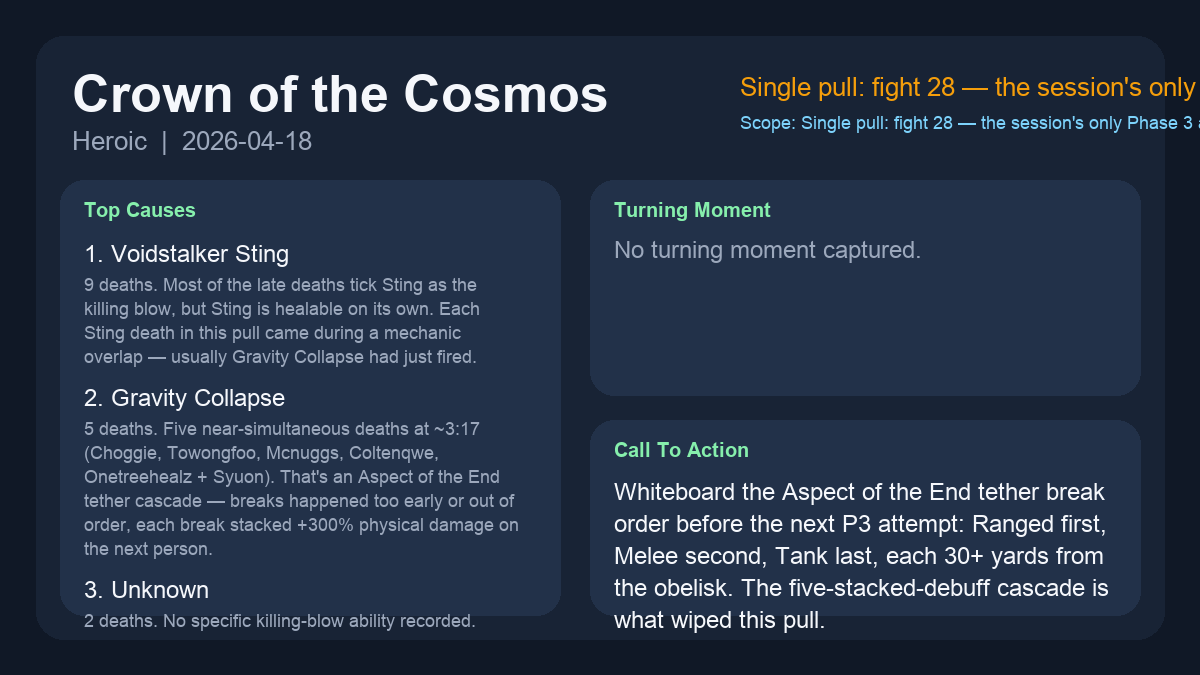
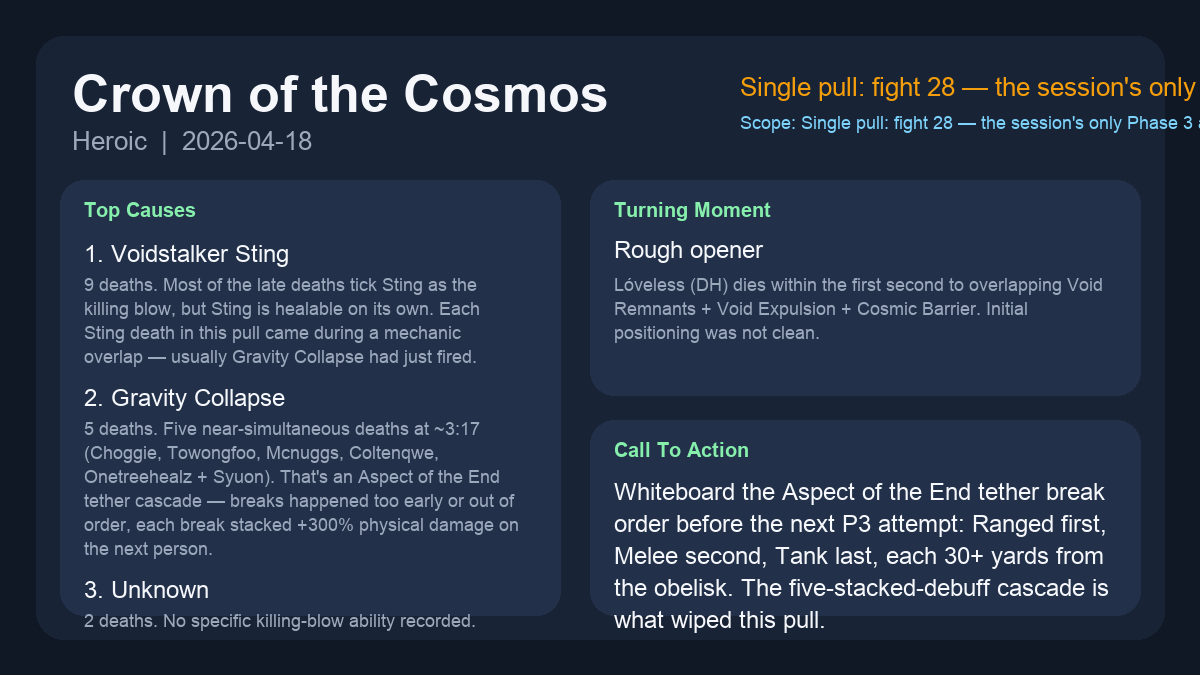
Publish report: Crown of the Cosmos

Changed region(s): [[0.4933, 0.3422, 0.925, 0.4978]]

diff --git a/reports/crown-of-the-cosmos/2026-04-18-rqxmdcnymz3ahxwq-3181-single-pull-fight-28-the-session-s-only-phase-3-attempt.html b/reports/crown-of-the-cosmos/2026-04-18-rqxmdcnymz3ahxwq-3181-single-pull-fight-28-the-session-s-only-phase-3-attempt.html
@@ -583,7 +583,13 @@ footer.report-footer {
           <li><a href="#analysis-scope">Analysis scope</a></li>
           
           
+          <li><a href="#simple-strategy">Simple strategy</a></li>
           
+          
+          <li><a href="#mechanic-glossary">Mechanic glossary</a></li>
+          
+          
+          <li><a href="#turning-moments">Turning moments</a></li>
           
           <li><a href="#cause-mix">Cause mix</a></li>
           <li><a href="#top-causes">Top death causes</a></li>
@@ -638,9 +644,350 @@ footer.report-footer {
       
 
       
+      <details class="report-section" id="simple-strategy">
+        <summary><h2>Simple strategy</h2></summary>
+        <div class="report-section-body">
+          
+          <p class="strategy-overview">Crown of the Cosmos is a 3-phase fight with two intermissions. The Rift Simulacrum shares health with the boss via Voidlink — when the Simulacrum dies at 62% boss HP, Phase 3 (The End of the End) begins. Heroic is a heavy HPS and DPS check; interrupts in P1/P2 and tether order in P3 are non-negotiable.</p>
+          
 
+          
+          <div class="strategy-block">
+            <h3>Fight plan</h3>
+            <ul>
+              
+              <li>P1 (100%–~85% boss HP): hard-interrupt every Void Barrage on Undying Voidspawn. One arrow per Sentinel — never re-hit the same Sentinel. Drop Void Remnants on the edge.</li>
+              
+              <li>Intermission 1 / P2 (Severed Rift): ranged bait Void Expulsion together on the fissure edge. Burn the Rift Simulacrum shield while a healer raid CD covers Cosmic Barrier. Rotate counter-clockwise along the fissure for Silverstrike Ricochet.</li>
+              
+              <li>Intermission 2 (Orbiting Matter): stay centered in your assigned platform slice. Do not move during the 300% arrow damage debuff window.</li>
+              
+              <li>P3 (from 62% boss HP): Ranged → Melee → Tank tether break order, 30+ yards apart. Grab feathers for Devouring Cosmos slice jumps. Reposition as a unit for Grasp of Emptiness / Bursting Emptiness.</li>
+              
+            </ul>
+          </div>
+          
+
+          
+          <div class="strategy-block">
+            <h3>Phase plan</h3>
+            <div class="strategy-phase-list">
+              
+              <article class="strategy-phase-card">
+                <h4>Phase 1 (100% → ~85%)</h4>
+                <p>Interrupt rotation phase. Add management with Silverstrike arrows.</p>
+                <p><strong>Positioning:</strong> Raid in standard stack. Tanks keep boss centered.</p>
+                <p><strong>Assignments:</strong> Three named interrupters per Undying Voidspawn, with a backup. One arrow per Sentinel — do not re-hit.</p>
+                <p><strong>Movement:</strong> Drop Void Remnants on the room edge. Keep the center clear.</p>
+              </article>
+              
+              <article class="strategy-phase-card">
+                <h4>Intermission 1 / Phase 2 (Severed Rift)</h4>
+                <p>DPS the Rift Simulacrum through Cosmic Barrier while healers raid-CD. Rotate for Ricochet.</p>
+                <p><strong>Positioning:</strong> Ranged slightly outside melee stack to bait Void Expulsion. Bait together on the fissure edge.</p>
+                <p><strong>Assignments:</strong> Healers pre-assign raid CDs for each Cosmic Barrier. DPS burn the shield.</p>
+                <p><strong>Movement:</strong> Rotate counter-clockwise along the fissure edge as Silverstrike Ricochet space shrinks.</p>
+              </article>
+              
+              <article class="strategy-phase-card">
+                <h4>Intermission 2 (Orbiting Matter)</h4>
+                <p>Platform slice transition. Do not move during the 300% arrow damage window.</p>
+                <p><strong>Positioning:</strong> Each player locks their assigned slice. Stay centered.</p>
+                <p><strong>Assignments:</strong> Call the slice per role before the intermission starts.</p>
+                <p><strong>Movement:</strong> No movement during the debuff window. Rotate slice only to dodge incoming bolts.</p>
+              </article>
+              
+              <article class="strategy-phase-card">
+                <h4>Phase 3 — The End of the End (from 62% boss HP)</h4>
+                <p>Tether break order is the whole fight. Feathers are required for slice jumps.</p>
+                <p><strong>Positioning:</strong> Ranged 30+ yards from tether obelisk. Tanks take tether last. Group moves as a unit for Grasp.</p>
+                <p><strong>Assignments:</strong> Ranged → Melee → Tank break order. One feather per player per Devouring Cosmos. Do not dispel Null Corona.</p>
+                <p><strong>Movement:</strong> Jump to a fresh slice via feather before Devouring Cosmos covers the current slice. Reposition off obelisks before Grasp/Bursting Emptiness fires.</p>
+              </article>
+              
+            </div>
+          </div>
+          
+
+          
+          <div class="strategy-block">
+            <h3>Big mistakes to avoid</h3>
+            <ul>
+              
+              <li>Letting a Void Barrage cast complete. The add goes unkillable and the raid eats massive damage.</li>
+              
+              <li>Re-hitting the same Sentinel with Silverstrike Arrow — it resets stacks.</li>
+              
+              <li>Breaking Aspect of the End tethers out of order or too close. Each break stacks 300% physical damage.</li>
+              
+              <li>Dispelling Null Corona. The remaining absorb jumps to another player — just heal through it.</li>
+              
+              <li>Skipping feathers on Heroic. You cannot outrun Devouring Cosmos without one on most classes.</li>
+              
+              <li>Moving during the 300% arrow damage window in Intermission 2.</li>
+              
+            </ul>
+          </div>
+          
+
+          
+          <div class="strategy-block">
+            <h3>How your log differed</h3>
+            <ul>
+              
+              <li>This pull reached Phase 3 — the session&#39;s only one. Prior wipes all stopped in P2.</li>
+              
+              <li>Phase 2 was clean on this pull: only one opener death (Lóveless at 0:00 to overlapping Void Remnants + Void Expulsion + Cosmic Barrier).</li>
+              
+              <li>Intermission 2 lost three players (Megàdeth, Coltenqwe, Wízardlizard) to Orbiting Matter / Stellar Emission — slice assignments were not held by everyone.</li>
+              
+              <li>Phase 3 wiped to an Aspect of the End cascade at ~3:17 (5 near-simultaneous Gravity Collapse deaths). Tether break order was not held.</li>
+              
+              <li>Late P3 cleanup deaths: Diesl to Devouring Cosmos (missed slice jump), Zoeìe and Skidouche to Grasp / Bursting Emptiness beams.</li>
+              
+            </ul>
+          </div>
+          
+
+          
+        </div>
+      </details>
       
 
+      
+      <details class="report-section" id="mechanic-glossary">
+        <summary><h2>Mechanic glossary</h2></summary>
+        <div class="report-section-body">
+          <div class="glossary-list">
+            
+            <div class="glossary-item">
+              <div class="glossary-name ability">Void Barrage</div>
+              
+              <div class="glossary-summary">Cast by Undying Voidspawn adds. At 100 energy the add goes unkillable and the cast deals massive raid damage.</div>
+              
+              <div class="glossary-howto"><strong>How to handle:</strong> Assign 3 named interrupters per add with a backup. Never let the cast complete.</div>
+              
+            </div>
+            
+            <div class="glossary-item">
+              <div class="glossary-name ability">Voidstalker Sting</div>
+              
+              <div class="glossary-summary">25-second Void DoT on random targets.</div>
+              
+              <div class="glossary-howto"><strong>How to handle:</strong> Healable with standard healing on Heroic. If it&#39;s killing people, the real problem is a concurrent mechanic.</div>
+              
+            </div>
+            
+            <div class="glossary-item">
+              <div class="glossary-name ability">Void Expulsion</div>
+              
+              <div class="glossary-summary">Ranged-baited puddle dropped on target location.</div>
+              
+              <div class="glossary-howto"><strong>How to handle:</strong> All ranged bait together on the fissure edge, slightly outside melee stack.</div>
+              
+            </div>
+            
+            <div class="glossary-item">
+              <div class="glossary-name ability">Void Remnants</div>
+              
+              <div class="glossary-summary">Ground puddles dropped by adds.</div>
+              
+              <div class="glossary-howto"><strong>How to handle:</strong> Drop on the edge of the room. Do not stand in old puddles.</div>
+              
+            </div>
+            
+            <div class="glossary-item">
+              <div class="glossary-name ability">Cosmic Barrier</div>
+              
+              <div class="glossary-summary">Large absorb on the Rift Simulacrum with raid-wide ambient damage for the duration.</div>
+              
+              <div class="glossary-howto"><strong>How to handle:</strong> Healers pre-assign a raid CD for each Barrier window. DPS burn the shield.</div>
+              
+            </div>
+            
+            <div class="glossary-item">
+              <div class="glossary-name ability">Silverstrike Ricochet</div>
+              
+              <div class="glossary-summary">Bouncing arrow that clears space along the fissure.</div>
+              
+              <div class="glossary-howto"><strong>How to handle:</strong> Rotate counter-clockwise along the fissure edge as space shrinks.</div>
+              
+            </div>
+            
+            <div class="glossary-item">
+              <div class="glossary-name ability">Orbiting Matter</div>
+              
+              <div class="glossary-summary">Bolts that fire through assigned platform slices during Intermission 2.</div>
+              
+              <div class="glossary-howto"><strong>How to handle:</strong> Stay centered in your assigned slice. Do not move during the 300% arrow damage debuff.</div>
+              
+            </div>
+            
+            <div class="glossary-item">
+              <div class="glossary-name ability">Aspect of the End</div>
+              
+              <div class="glossary-summary">Tethers tank, melee, and ranged players to obelisks. Break order matters.</div>
+              
+              <div class="glossary-howto"><strong>How to handle:</strong> Break order: Ranged → Melee → Tank, 30+ yards apart. Each break stacks 300% physical damage.</div>
+              
+            </div>
+            
+            <div class="glossary-item">
+              <div class="glossary-name ability">Gravity Collapse</div>
+              
+              <div class="glossary-summary">Raid damage fired when Aspect tethers break.</div>
+              
+              <div class="glossary-howto"><strong>How to handle:</strong> Survivable with reasonable spacing and correct break order. Cascades if debuffs stack.</div>
+              
+            </div>
+            
+            <div class="glossary-item">
+              <div class="glossary-name ability">Grasp of Emptiness</div>
+              
+              <div class="glossary-summary">Obelisk anchor for 8 seconds, then beams fire at expiration.</div>
+              
+              <div class="glossary-howto"><strong>How to handle:</strong> Reposition the group as a unit before the timer expires.</div>
+              
+            </div>
+            
+            <div class="glossary-item">
+              <div class="glossary-name ability">Devouring Cosmos</div>
+              
+              <div class="glossary-summary">Covers the current platform slice in a no-heal puddle.</div>
+              
+              <div class="glossary-howto"><strong>How to handle:</strong> Jump to a fresh slice via feather before it finishes spawning. Feathers are required on Heroic.</div>
+              
+            </div>
+            
+            <div class="glossary-item">
+              <div class="glossary-name ability">Bursting Emptiness</div>
+              
+              <div class="glossary-summary">Damage when Grasp of Emptiness expires.</div>
+              
+              <div class="glossary-howto"><strong>How to handle:</strong> Same dodge as Grasp — reposition as a unit before expiration.</div>
+              
+            </div>
+            
+            <div class="glossary-item">
+              <div class="glossary-name ability">Dark Rush</div>
+              
+              <div class="glossary-summary">Cosmic feather pickup granting a 12-second glide.</div>
+              
+              <div class="glossary-howto"><strong>How to handle:</strong> Required to cross between slices on Heroic. Grab one per Devouring Cosmos cycle.</div>
+              
+            </div>
+            
+            <div class="glossary-item">
+              <div class="glossary-name ability">Null Corona</div>
+              
+              <div class="glossary-summary">Heal absorb on a player.</div>
+              
+              <div class="glossary-howto"><strong>How to handle:</strong> Do NOT dispel. Dispelling jumps the remaining absorb to another player. Heal through it.</div>
+              
+            </div>
+            
+          </div>
+        </div>
+      </details>
+      
+
+      
+      <details class="report-section" id="turning-moments" open>
+        <summary><h2>Turning moments</h2></summary>
+        <div class="report-section-body">
+          <div class="turning-list">
+            
+            <article class="turning-card">
+              <div class="turning-meta">Pull 1 &middot; 0:00</div>
+              <h3>Rough opener</h3>
+              <p class="turning-summary">Lóveless (DH) dies within the first second to overlapping Void Remnants + Void Expulsion + Cosmic Barrier. Initial positioning was not clean.</p>
+              
+              <div class="turning-mechanics">
+                
+                <span class="turning-chip ability">Void Remnants</span>
+                
+                <span class="turning-chip ability">Void Expulsion</span>
+                
+                <span class="turning-chip ability">Cosmic Barrier</span>
+                
+              </div>
+              
+              
+              <p><strong>Impact:</strong> First raid loss before P1 settled. Not fatal — the raid recovered.</p>
+              
+              
+              <p><strong>Why it mattered:</strong> Signals that pre-pull spread/stack was not correct.</p>
+              
+            </article>
+            
+            <article class="turning-card">
+              <div class="turning-meta">Pull 1 &middot; 1:54 → 2:11</div>
+              <h3>Intermission 2 slice coverage gap</h3>
+              <p class="turning-summary">Megàdeth (DK), Coltenqwe (Warlock), and Wízardlizard (Evoker) get clipped by Orbiting Matter and Stellar Emission during the platform transition.</p>
+              
+              <div class="turning-mechanics">
+                
+                <span class="turning-chip ability">Orbiting Matter</span>
+                
+                <span class="turning-chip ability">Stellar Emission</span>
+                
+              </div>
+              
+              
+              <p><strong>Impact:</strong> Three players lost before Phase 3 even started — raid entered the hardest phase down 15% roster.</p>
+              
+              
+              <p><strong>Why it mattered:</strong> Three people isn&#39;t random variance, it&#39;s a slice assignment that wasn&#39;t called or wasn&#39;t held.</p>
+              
+            </article>
+            
+            <article class="turning-card">
+              <div class="turning-meta">Pull 1 &middot; 2:56 → 3:19</div>
+              <h3>Aspect of the End tether cascade</h3>
+              <p class="turning-summary">Five near-simultaneous Gravity Collapse deaths: Choggie, Towongfoo, Mcnuggs, Coltenqwe, Onetreehealz (+ Syuon on the next tick).</p>
+              
+              <div class="turning-mechanics">
+                
+                <span class="turning-chip ability">Aspect of the End</span>
+                
+                <span class="turning-chip ability">Gravity Collapse</span>
+                
+              </div>
+              
+              
+              <p><strong>Impact:</strong> Lost 5+ players at once. The pull was effectively over from this point.</p>
+              
+              
+              <p><strong>Why it mattered:</strong> Classic out-of-order tether break — each break applied 300% physical damage, stacking until the raid folded. This is THE phase 3 failure mode.</p>
+              
+            </article>
+            
+            <article class="turning-card">
+              <div class="turning-meta">Pull 1 &middot; 4:13 → 4:17</div>
+              <h3>Grasp and Devouring Cosmos cleanup</h3>
+              <p class="turning-summary">Zoeìe and Skidouche die to Grasp of Emptiness beams. Diesl dies to Devouring Cosmos after staying on the filling slice.</p>
+              
+              <div class="turning-mechanics">
+                
+                <span class="turning-chip ability">Grasp of Emptiness</span>
+                
+                <span class="turning-chip ability">Devouring Cosmos</span>
+                
+                <span class="turning-chip ability">Dark Rush</span>
+                
+              </div>
+              
+              
+              <p><strong>Impact:</strong> Wiped out the remaining survivors.</p>
+              
+              
+              <p><strong>Why it mattered:</strong> Grasp deaths show the group didn&#39;t move as a unit before expiration. Diesl&#39;s Devouring Cosmos death was a missed feather jump — a soloable mechanic on Heroic with practice.</p>
+              
+            </article>
+            
+          </div>
+        </div>
+      </details>
       
 
       <details class="report-section" id="cause-mix" open>
